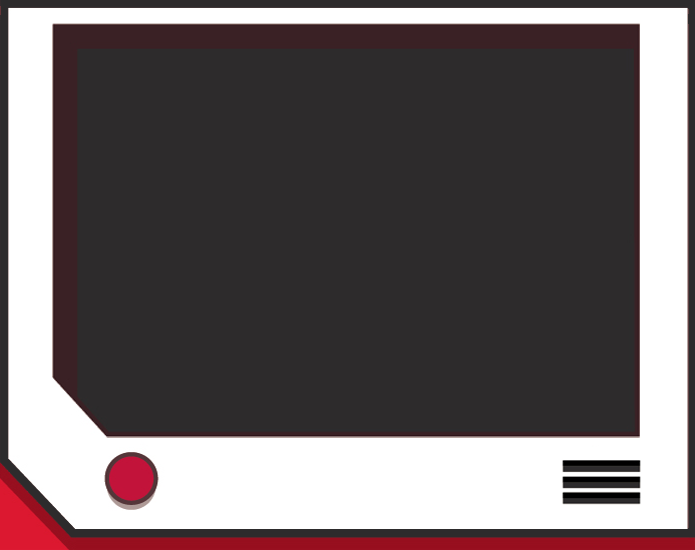
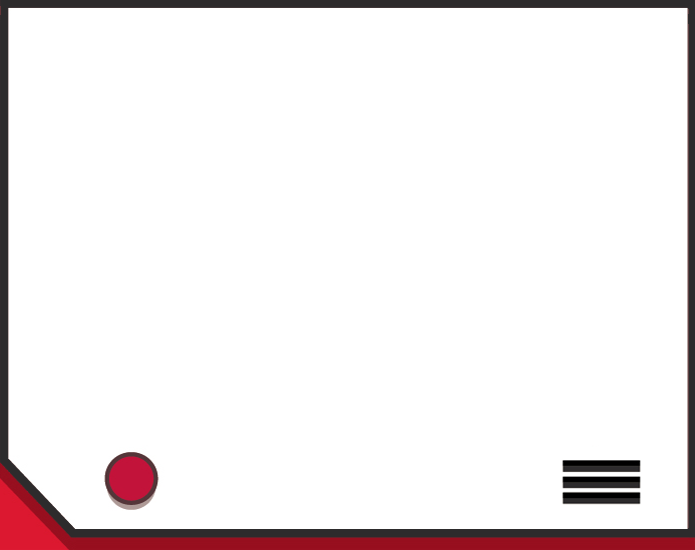
sprite loaded to material

diff --git a/pages/pokedex.js b/pages/pokedex.js
@@ -1,33 +1,168 @@
-import React, { useEffect } from "react";
+import React, { useState, useEffect, useRef } from "react";
 import Image from 'next/image'
-import { Canvas } from "@react-three/fiber";
+import { Canvas, useLoader } from "@react-three/fiber";
+// import SpriteScene from "./components/sprites"
+import { TextureLoader } from "three";
+import { listPokemon, getPokemonInfoByName, getPokemonDescription } from "./api/pokeapi";
 import styles from "@/styles/Pokedex.module.css";
-import { Box, LightBulb } from "./components/sprites";
 
 const Pokedex = () => {
+  // variables.
+  const pkmnSearchBarRef = useRef();
+  const [pkmnList, setPkmnList] = useState([]);
+  const [selectedPkmnList, setSelectedPkmnList] = useState("");
+  const [selectedPkmnInfo, setSelectedPkmnInfo] = useState("");
+  const [selectedPkmnDescription, setPkmnDescription] = useState("");
+
+  const [srcSprite, setSrcSprite] = useState("no_data.png");
+  const SpriteScene = () => {
+    const sprite = useLoader(TextureLoader, srcSprite);
+
+    return (
+      <mesh scale={1.5}>
+        <directionalLight position={[0, 0, 5]} />
+        <planeGeometry  />
+        <meshStandardMaterial map={sprite} />
+      </mesh>
+    );
+  };
+
+
+  // functions
+  const PokemonInfo = () => {
+    let info = "";
+
+    if(selectedPkmnInfo != "") {
+      //set Sprite.
+      // setSrcSprite(selectedPkmnInfo.sprites.other["official-artwork"].front_default);
+
+      // set Info.
+      info = 
+      "<strong>Height:</strong> " + selectedPkmnInfo.height * 10 + " cms.<br>" +
+      "<strong>Weight:</strong> " + selectedPkmnInfo.weight / 10 + " kgs.<br>" +
+      "<strong>Types:</strong> ";
+      selectedPkmnInfo.types.map((item, index) => (
+        info = info + item.type.name + (selectedPkmnInfo.types.length-1 === index ? "<br>" : ", ")
+      ))
+      info = info + "<strong>Description:</strong> " + selectedPkmnDescription;
+    }
+    else {
+      // setSrcSprite("/no_data.png");
+      info = "<strong>No data</strong>";
+    }
+
+    return (
+      <div dangerouslySetInnerHTML={{ __html: info }} />
+    );
+  }
+
+  // handlers for Search Bar and Select.
+  const handlerSearchSelect = (event) => {
+    setSelectedPkmnList(event.target.value);
+    pkmnSearchBarRef.current.value = "";
+  };
+  const handlerOnKeyDownSearchBar = (event) => {
+    if (event.key === "Enter") {
+      handlerSearchButton();
+      pkmnSearchBarRef.current.value = event.target.value;
+    }
+  }
+  // hanlder for Search Button.
+  const handlerSearchButton = () => {
+    const getPkmnInfo = async () => {
+      if (pkmnSearchBarRef.current.value != "") {
+        const info = await getPokemonInfoByName(pkmnSearchBarRef.current.value);       
+        setSelectedPkmnInfo(info);
+
+        const description = await getPokemonDescription(pkmnSearchBarRef.current.value); 
+        setPkmnDescription(description);
+
+        setSelectedPkmnList(pkmnSearchBarRef.current.value);
+      }
+      else
+        setSelectedPkmnInfo("");
+    }
+    getPkmnInfo();
+  };
+
+  // first Load hook.
+  useEffect(() => {
+    const getPkmnList = async () => {
+      const resp = await listPokemon();
+
+      if(resp.length > 0) {
+        setPkmnList(resp);
+      }
+    }
+    getPkmnList();
+  }, []);
+
+  // Pokémon list hook.
+  useEffect(() => {
+    const getPkmnInfo = async () => {
+      if (selectedPkmnList != "") {
+        const info = await getPokemonInfoByName(selectedPkmnList);       
+        setSelectedPkmnInfo(info);
+
+        const description = await getPokemonDescription(selectedPkmnList);
+        setPkmnDescription(description);
+      }
+    }
+    getPkmnInfo();
+  }, [selectedPkmnList]);
+
+  // selected Pokémon hook.
+  useEffect(() => {
+    if (selectedPkmnInfo !== "")
+      setSrcSprite(selectedPkmnInfo.sprites.other["official-artwork"].front_default)
+    else
+      setSrcSprite("no_data.png");
+    PokemonInfo();
+
+  }, [selectedPkmnInfo]);
+
   return (
     <div className={styles.pokedex}>
       <div className={styles.topScreen} />
-      <div className={styles.screen}>
-      {/* <div style={{ width: '300px', height: '300px' }}> */}
-        <Canvas
-          // size={{ width: 5, height: 5 }}
-          width= {100}
-          height={100}
-          style={{ border: "1px solid black", backgroundColor: "lightgray" }}
-          camera={{
-            fov: 75,
-            near: 0.1,
-            far: 1000,
-            position: [-6, 7, 7]
-          }}
-        >
-          <ambientLight color={"white"} intensity={0.5} />
-          <pointLight position={[10, 10, 10]} />
-            {/* <LightBulb position={[0, 3, 0]} /> */}
-            <Box rotateX={3} rotateY={0.2}  />
-        </Canvas>
-        {/* </div> */}
+        <div className={styles.screen}>
+          <div className={styles.screenCanvas}>
+            <Canvas
+              style={{ border: "8px solid #2d2b2c", backgroundColor: "#4fa95f" }}
+              shadows="soft"
+              camera={{
+                fov: 75,
+                near: 0.1,
+                far: 1000,
+                position: [0, 0, 1]
+              }}
+            >
+              <SpriteScene />
+            </Canvas>
+          </div>
+          <div className={styles.selectBar}>
+          <select id={"searchSelect"} className={styles.select} style={{textTransform: "capitalize"}} value={selectedPkmnList} onChange={handlerSearchSelect}>
+              <option key={0} value={""}>--</option>
+              {pkmnList.length > 0 ? (
+                pkmnList.map((item, index) => (
+                  <option key={index} value={item.name}>#{index+1} - {item.name}</option>
+                ))
+              ) : (
+                <option value="">No Data Available</option>
+              )}
+            </select>
+        </div>
+        </div>
+      <div className={styles.searchBar}>
+        <input type={"text"} id={"searchText"} placeholder={"Type the name to search"} className={styles.searchText} ref={pkmnSearchBarRef} onChange={(e) => pkmnSearchBarRef.current.value = e.target.value} onKeyDown={handlerOnKeyDownSearchBar} autoComplete="off" /> <button className={styles.searchButton} onClick={handlerSearchButton}>Find</button>
+      </div>
+      <div className={styles.infoBar} ><PokemonInfo /></div>
+      <div className={styles.bottomRow}>
+        <Image
+            src="/buttons.png"
+            width={150}
+            height={19}
+            alt=""
+          />
       </div>
     </div>
   );

diff --git a/pages/components/sprites.js b/pages/components/sprites.js
@@ -1,32 +1,16 @@
-import React from "react";
+import { TextureLoader } from "three";
+import { useLoader } from "@react-three/fiber";
 
-export const Box = (props) => {
+const SpriteScene = (sprite) => {
+  const sprite = useLoader(TextureLoader, "../public/no_data.png");
+
   return (
-    <mesh {...props} recieveShadow={true} castShadow>
-      <boxBufferGeometry />
-      <meshPhysicalMaterial  color={"white"} />
+    <mesh scale={1.5}>
+      <directionalLight position={[0, 0, 5]} />
+      <planeGeometry  />
+      <meshStandardMaterial map={sprite} transparent/>
     </mesh>
   );
-}
+};
 
-export const LightBulb = (props) => {
-  return (
-    <mesh {...props} >
-      <pointLight castShadow />
-      <sphereBufferGeometry args={[0.2, 30, 10]} />
-      <meshPhongMaterial emissive={"yellow"}  />
-    </mesh>
-  );
-}
-
-// export const Floor = (props) => {
-//   return (
-//     <mesh {...props} recieveShadow>
-//       <boxBufferGeometry args={[20,1,10]} />
-//       <meshPhysicalMaterial color='white' />
-//     </mesh>
-//   );
-// }
-
-// export { Box, Floor, LightBulb };
-// export default Box;
+export default SpriteScene;

diff --git a/styles/Pokedex.module.css b/styles/Pokedex.module.css
@@ -31,7 +31,7 @@
     display: flex;
     flex-direction: column;
     align-items: center;
-    padding-top: 25px;
+    padding-top: 12px;
     margin-left: -1px;
     width: 405px;
     height: 319px;
@@ -41,8 +41,13 @@
     background-size: 403px 319px;
   }
 
+  .screenCanvas {
+    width: 340px;
+    height: 240px;
+  }
+
   .selectBar {
-    margin-top: 18px;
+    margin-top: 12px;
     width: 220px;
     height: 30px;
   }
